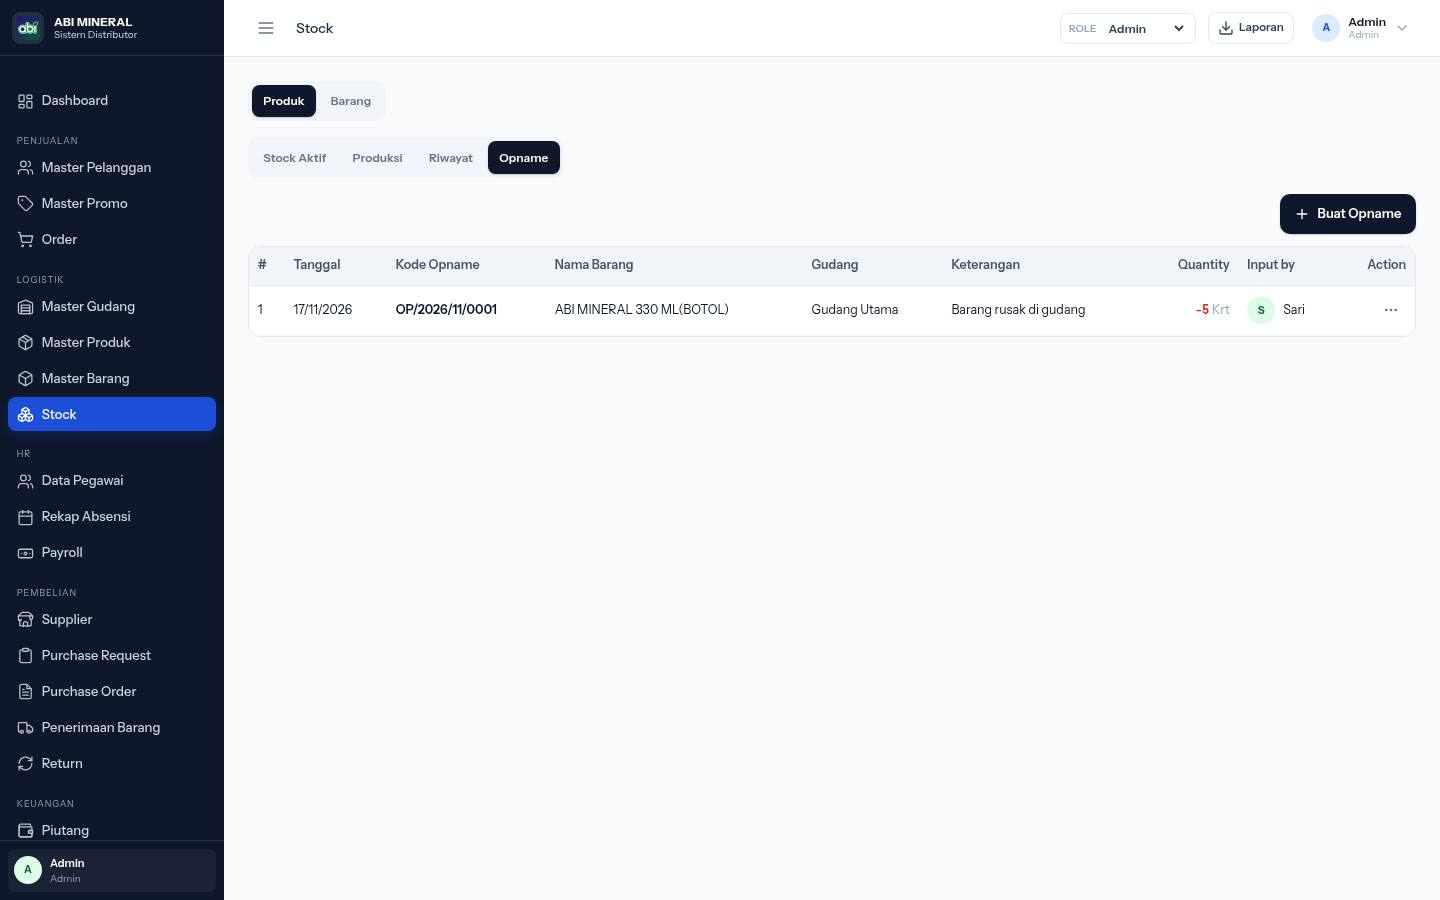
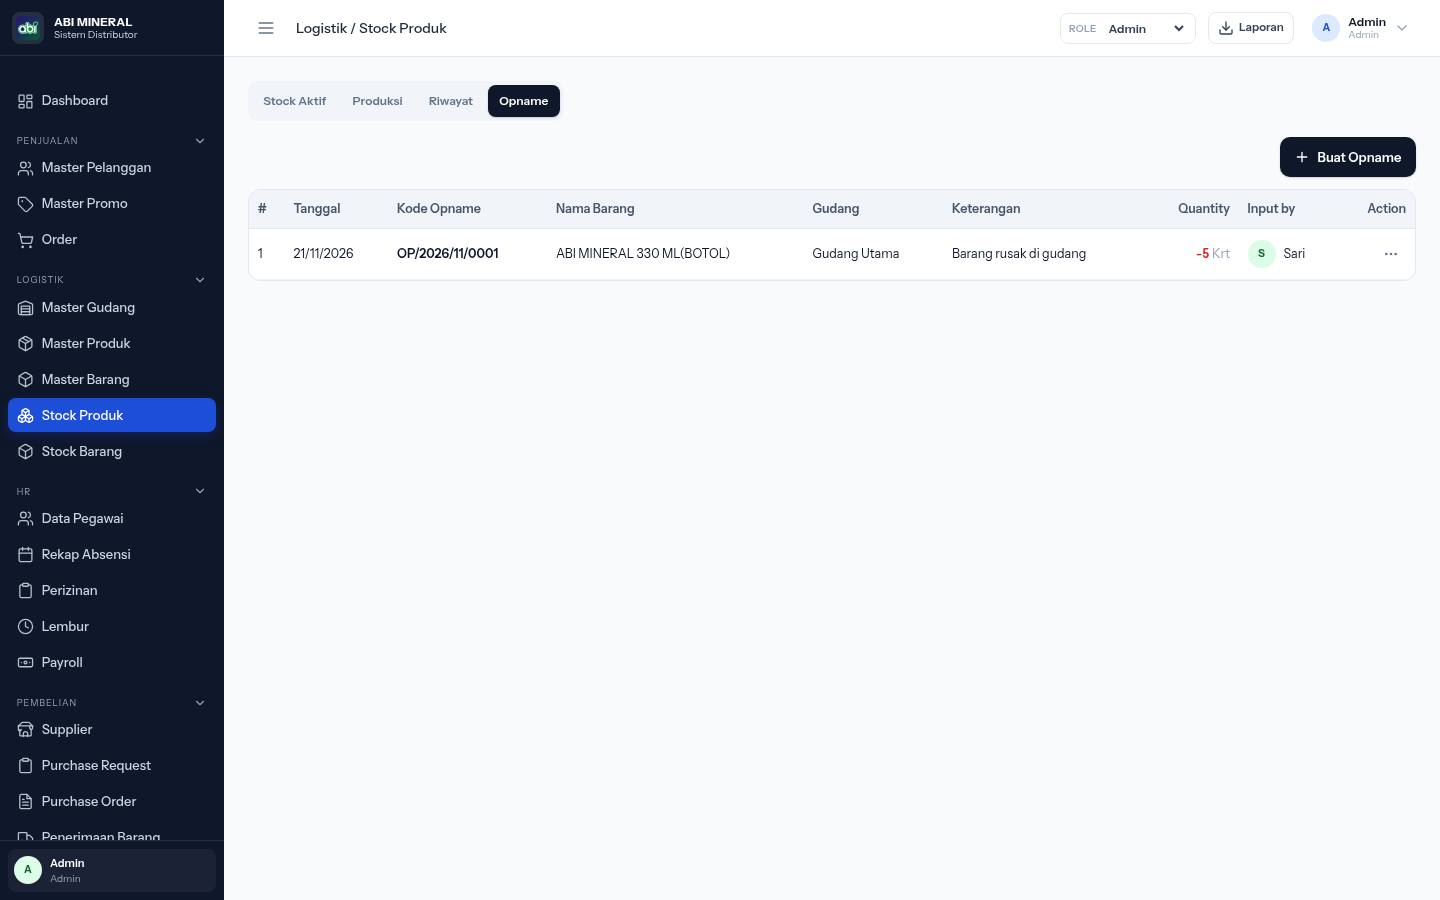
feat: split stock menu into product and material pages

diff --git a/assets/app.js b/assets/app.js
@@ -69,6 +69,8 @@ const PAGE_PERMISSION = {
   'trial-balance': 'Laporan Keuangan',
   reports: 'Laporan Keuangan',
   stock: 'Stock',
+  'stock-product': 'Stock',
+  'stock-material': 'Stock',
   receivables: 'Piutang',
   payables: 'Utang',
   'collection-create': 'Piutang',
@@ -1634,7 +1636,8 @@ function app() {
           { page: 'warehouses', label: 'Master Gudang', icon: 'i-warehouse', match: ['warehouses'] },
           { page: 'products', label: 'Master Produk', icon: 'i-package', match: ['products','product-create'] },
           { page: 'materials', label: 'Master Barang', icon: 'i-box', match: ['materials'] },
-          { page: 'stock', label: 'Stock', icon: 'i-boxes', match: ['stock'] }
+          { page: 'stock-product', label: 'Stock Produk', icon: 'i-boxes', match: ['stock-product'] },
+          { page: 'stock-material', label: 'Stock Barang', icon: 'i-box', match: ['stock-material'] }
         ]},
         { title: 'HR', items: [
           { page: 'employees', label: 'Data Pegawai', icon: 'i-users', match: ['employees'] },
@@ -1709,6 +1712,8 @@ function app() {
         'delivery-invoice': { title: 'Preview Delivery', crumb: 'Order / Surat Jalan / Invoice' },
         returns: { title: 'Return', crumb: 'Order / Return' },
         stock: { title: 'Stock', crumb: 'Stock' },
+        'stock-product': { title: 'Stock Produk', crumb: 'Logistik / Stock Produk' },
+        'stock-material': { title: 'Stock Barang', crumb: 'Logistik / Stock Barang' },
         warehouses: { title: 'Master Gudang', crumb: 'Master Gudang' },
         products: { title: 'Master Produk', crumb: 'Master Produk' },
         'product-create': { title: 'Form Produk', crumb: 'Master Produk / Form Produk' },
@@ -1779,6 +1784,10 @@ function app() {
       if (page === 'receipt-preview') return this.receipts.length > 0;
       return true;
     },
+    applyStockPageView(page) {
+      if (page === 'stock-product') this.stockView = 'product';
+      if (page === 'stock-material') this.stockView = 'material';
+    },
     go(page) {
       if (page === 'trial-balance') page = 'reports';
       if (page !== 'login' && !this.currentUserId) {
@@ -1800,6 +1809,7 @@ function app() {
       if (page === 'finance-income') this.financeTab = 'income';
       if (page === 'finance-expense') this.financeTab = 'expense';
       if (page === 'attendance') this.attendanceView = 'list';
+      this.applyStockPageView(page);
       this.mobileMenu = false;
       this.userMenu = false;
       this.closeModals();
@@ -2003,13 +2013,13 @@ function app() {
           break;
         }
         case 'stock-modal': {
-          this.page = 'stock';
+          this.page = 'stock-product';
           this.stockView = 'product';
           this.openStock();
           break;
         }
         case 'opname-modal': {
-          this.page = 'stock';
+          this.page = 'stock-product';
           this.stockView = 'product';
           this.openOpname();
           break;
@@ -2229,6 +2239,7 @@ function app() {
         if (!this.canAccessPage(next) || !this.pageRequiresData(next)) next = 'dashboard';
         this.page = next;
         this.sessionPage = next;
+        this.applyStockPageView(next);
         try { history.replaceState(null, '', '#' + next); } catch (e) {}
       }
       if (['hpp-bulanan-create','hpp-bulanan-detail'].includes(this.page)) this.hppTab = 'bulanan';
@@ -2249,6 +2260,7 @@ function app() {
         if (!this.canAccessPage(next) || !this.pageRequiresData(next)) { this.go('dashboard'); return; }
         this.page = next;
         this.sessionPage = next;
+        this.applyStockPageView(next);
         if (next === 'finance-income') this.financeTab = 'income';
         if (next === 'finance-expense') this.financeTab = 'expense';
         if (['delivery-check','delivery-detail'].includes(next) && this.deliveries.length) {
@@ -2283,6 +2295,7 @@ function app() {
       this.loginRole = this.role;
       this.sessionPage = this.sessionPage && this.canAccessPage(this.sessionPage) ? this.sessionPage : 'dashboard';
       this.page = this.sessionPage;
+      this.applyStockPageView(this.page);
       this.saveStore();
       try { history.replaceState(null, '', '#' + this.page); } catch (e) {}
       this.notify('Selamat datang, ' + user.name);

diff --git a/index.html b/index.html
@@ -434,7 +434,7 @@
           <div class="card" x-show="dashboardAccess.stock">
             <div class="card-header">
               <div class="section-title">Informasi Stock</div>
-              <button class="btn btn-ghost btn-xs" @click="go('stock')">Lihat semua <svg class="icon icon-xs"><use href="#i-chevron-right"></use></svg></button>
+              <button class="btn btn-ghost btn-xs" @click="go('stock-product')">Lihat semua <svg class="icon icon-xs"><use href="#i-chevron-right"></use></svg></button>
             </div>
             <div class="card-body pt-0 space-y-3">
               <div class="seg w-full">
@@ -479,7 +479,7 @@
               </div>
               <div class="flex items-center justify-between rounded-lg border border-slate-200 bg-slate-50 px-3 py-2.5 text-xs">
                 <span class="flex items-center gap-2"><svg class="icon icon-sm text-slate-400"><use href="#i-package"></use></svg> Produksi bulan ini</span>
-                <span class="flex items-center gap-2"><b x-text="stockDashboardStats.productionMonth"></b><button class="text-blue-600 hover:underline" @click="stockView = 'product'; stockTab = 'production'; go('stock')">Lihat</button></span>
+                <span class="flex items-center gap-2"><b x-text="stockDashboardStats.productionMonth"></b><button class="text-blue-600 hover:underline" @click="stockTab = 'production'; go('stock-product')">Lihat</button></span>
               </div>
             </div>
           </div>
@@ -1326,11 +1326,7 @@
       </section>
 
       <!-- STOCK -->
-      <section x-show="page === 'stock'">
-        <div class="seg mb-4">
-          <button class="seg-btn" :class="{ 'active': stockView === 'product' }" @click="stockView = 'product'">Produk</button>
-          <button class="seg-btn" :class="{ 'active': stockView === 'material' }" @click="stockView = 'material'">Barang</button>
-        </div>
+      <section x-show="['stock','stock-product','stock-material'].includes(page)">
         <div x-show="stockView === 'product'">
         <div class="seg w-fit mb-4">
           <button class="seg-btn" :class="{ 'active': stockTab === 'active' }" @click="stockTab = 'active'">Stock Aktif</button>
@@ -5846,7 +5842,7 @@
 <input type="file" id="import-file" accept="application/json,.json" class="hidden" @change="handleImport($event)">
 
 <script src="assets/vendor/xlsx.full.min.js"></script>
-<script src="assets/app.js?v=20261127e"></script>
+<script src="assets/app.js?v=20261127f"></script>
 <script defer src="assets/vendor/alpine.min.js"></script>
 </body>
 </html>

diff --git a/app-docs.md b/app-docs.md
@@ -520,6 +520,8 @@ Setiap label grup dapat diklik untuk **expand/collapse**. Chevron berputar saat 
 | Invoice Delivery | `/dashboard/order/delivery/invoice/{delivery}` | `Order Admin` |
 | Produk Delivery | `/dashboard/order/delivery/product/{delivery}` | `Order Admin` |
 | Return | `/dashboard/order/retur` | `Order Admin` |
+| Stock Produk | `/dashboard/inventory/stock-product` | `Stock` |
+| Stock Barang | `/dashboard/inventory/stock-material` | `Stock` |
 | Stock Aktif | `/dashboard/inventory/stock` | `Stock` |
 | Riwayat Stock | `/dashboard/inventory/history` | `Stock` |
 | Stock Opname | `/dashboard/inventory/opname` | `Stock` + `Stock Opname` |
@@ -655,16 +657,22 @@ Role tidak otomatis memiliki permission; permission diatur per role melalui hala
 
 ### 7.5 Stock
 
-1. **Stock Aktif**: daftar produk + total stok dari semua gudang.
+Menu Stock dipisah menjadi dua halaman di sidebar:
+- **Stock Produk** — produk jadi.
+- **Stock Barang** — bahan baku.
+
+Tab **Produk / Barang** di dalam halaman dihapus.
+
+1. **Stock Produk → Stock Aktif**: daftar produk + total stok dari semua gudang.
 2. **Produksi**: membuat produk jadi dari bahan baku berdasarkan resep; standar dapat disesuaikan dengan pemakaian aktual.
 3. **Riwayat**: pergerakan stock masuk, produksi, koreksi produksi; nomor PRD dapat diklik menuju detail.
 4. **Opname**: penyesuaian stok per produk/gudang; qty positif menambah, negatif mengurangi.
-5. **Barang → Stock Aktif**: qty dan nilai bahan per gudang.
-6. **Barang → Riwayat**: pergerakan bahan baku dari penerimaan, return, produksi, dan opname.
-7. **Barang → Opname**: penyesuaian stok bahan baku per gudang; qty positif menambah, negatif mengurangi; tersimpan sebagai pergerakan `opname`.
+5. **Stock Barang → Stock Aktif**: qty dan nilai bahan per gudang.
+6. **Stock Barang → Riwayat**: pergerakan bahan baku dari penerimaan, return, produksi, dan opname.
+7. **Stock Barang → Opname**: penyesuaian stok bahan baku per gudang; qty positif menambah, negatif mengurangi; tersimpan sebagai pergerakan `opname`.
 8. **Master Barang**: status aktif/nonaktif; barang yang dipakai resep tidak dapat dihapus.
 9. **Master Gudang**: kode otomatis `ST-0001`.
-10. **Barang → Selisih**: analisis pemakaian bahan baku per tanggal, produk, bahan, dan gudang.
+10. **Stock Barang → Selisih**: analisis pemakaian bahan baku per tanggal, produk, bahan, dan gudang.
     - Selisih = qty aktual dipakai − qty standar resep.
     - Positif berarti lebih pakai, negatif berarti hemat.
     - Ringkasan per bahan dan detail per dokumen produksi.
@@ -1200,13 +1208,19 @@ Route: `/dashboard/order/retur`
 
 ---
 
-### 8.7 Inventory / Stock
+### 8.7 Inventory / Stock Produk & Stock Barang
 
-#### 8.7.1 Stock Aktif
+Menu Logistik memiliki dua halaman terpisah:
+- **Stock Produk** — menampilkan tab **Stock Aktif**, **Produksi**, **Riwayat**, dan **Opname**.
+- **Stock Barang** — menampilkan tab **Stock Aktif**, **Riwayat**, **Opname**, dan **Selisih**.
 
-Route: `/dashboard/inventory/stock`
+Tab **Produk / Barang** di bagian atas halaman dihapus.
 
-- Tabs: **Stock Aktif**, **Riwayat**, **Opname**.
+#### 8.7.1 Stock Aktif Produk
+
+Route: `/dashboard/inventory/stock-product`
+
+- Tabs: **Stock Aktif**, **Produksi**, **Riwayat**, **Opname**.
 - Toolbar: search, multi-select status barang, tombol **+ Tambah Stock**.
 - Tabel: `#`, `Kode Barang`, `Nama Barang`, `Stock Aktif` (rata kanan, angka + satuan).
 - Pagination.
